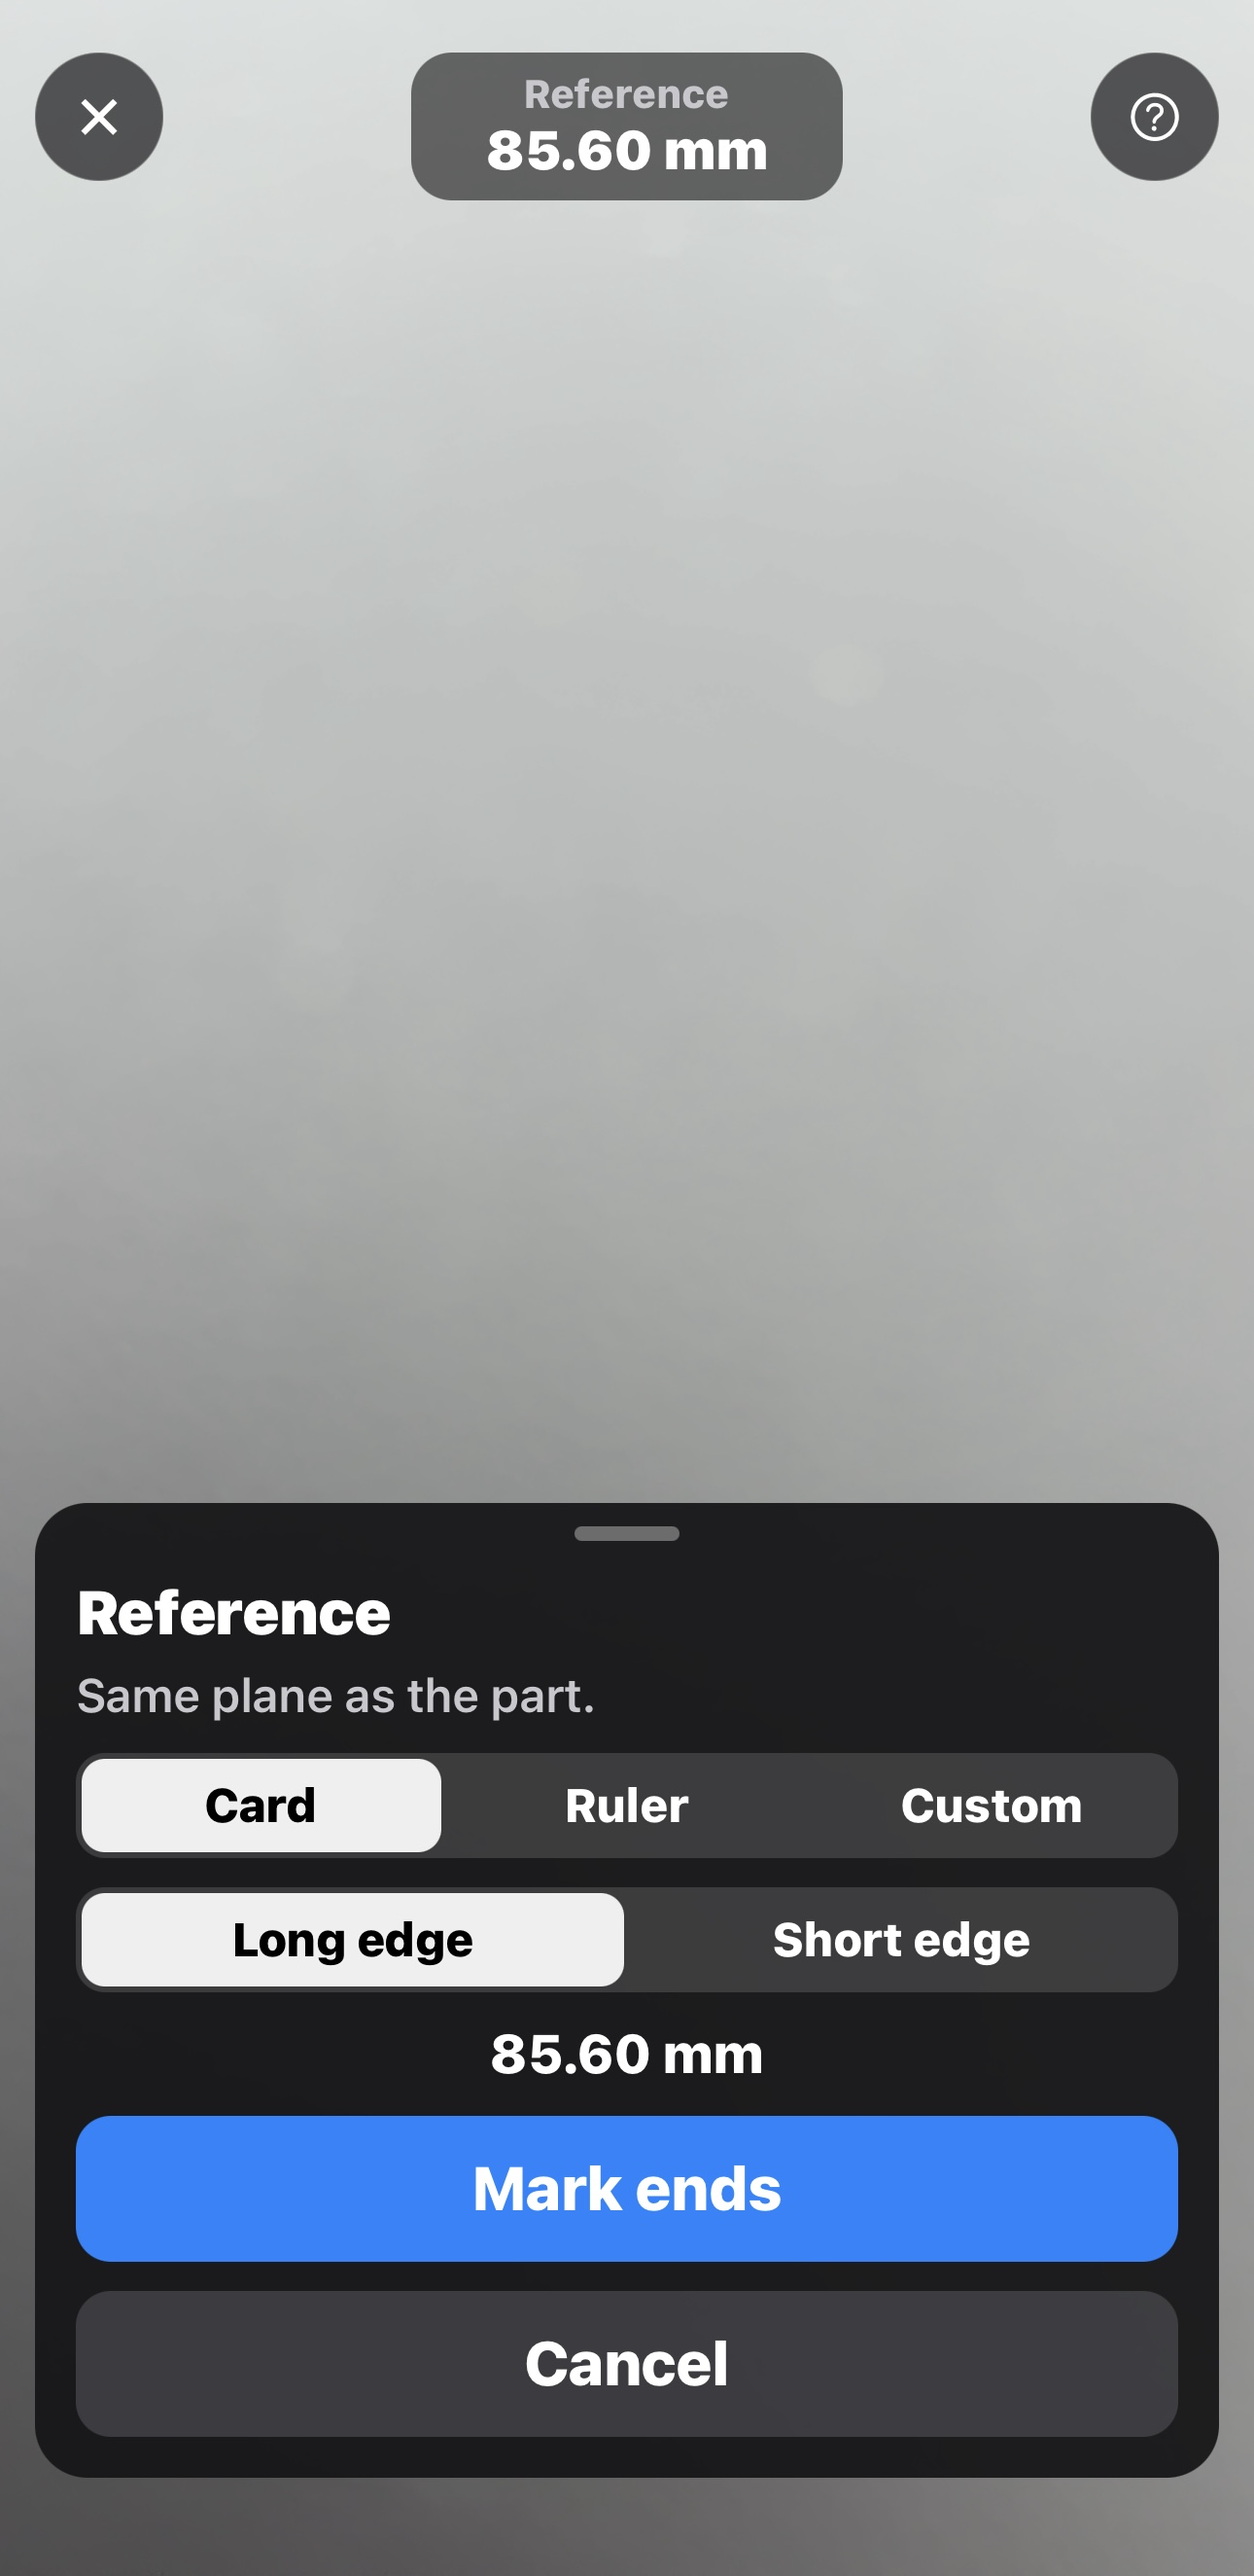
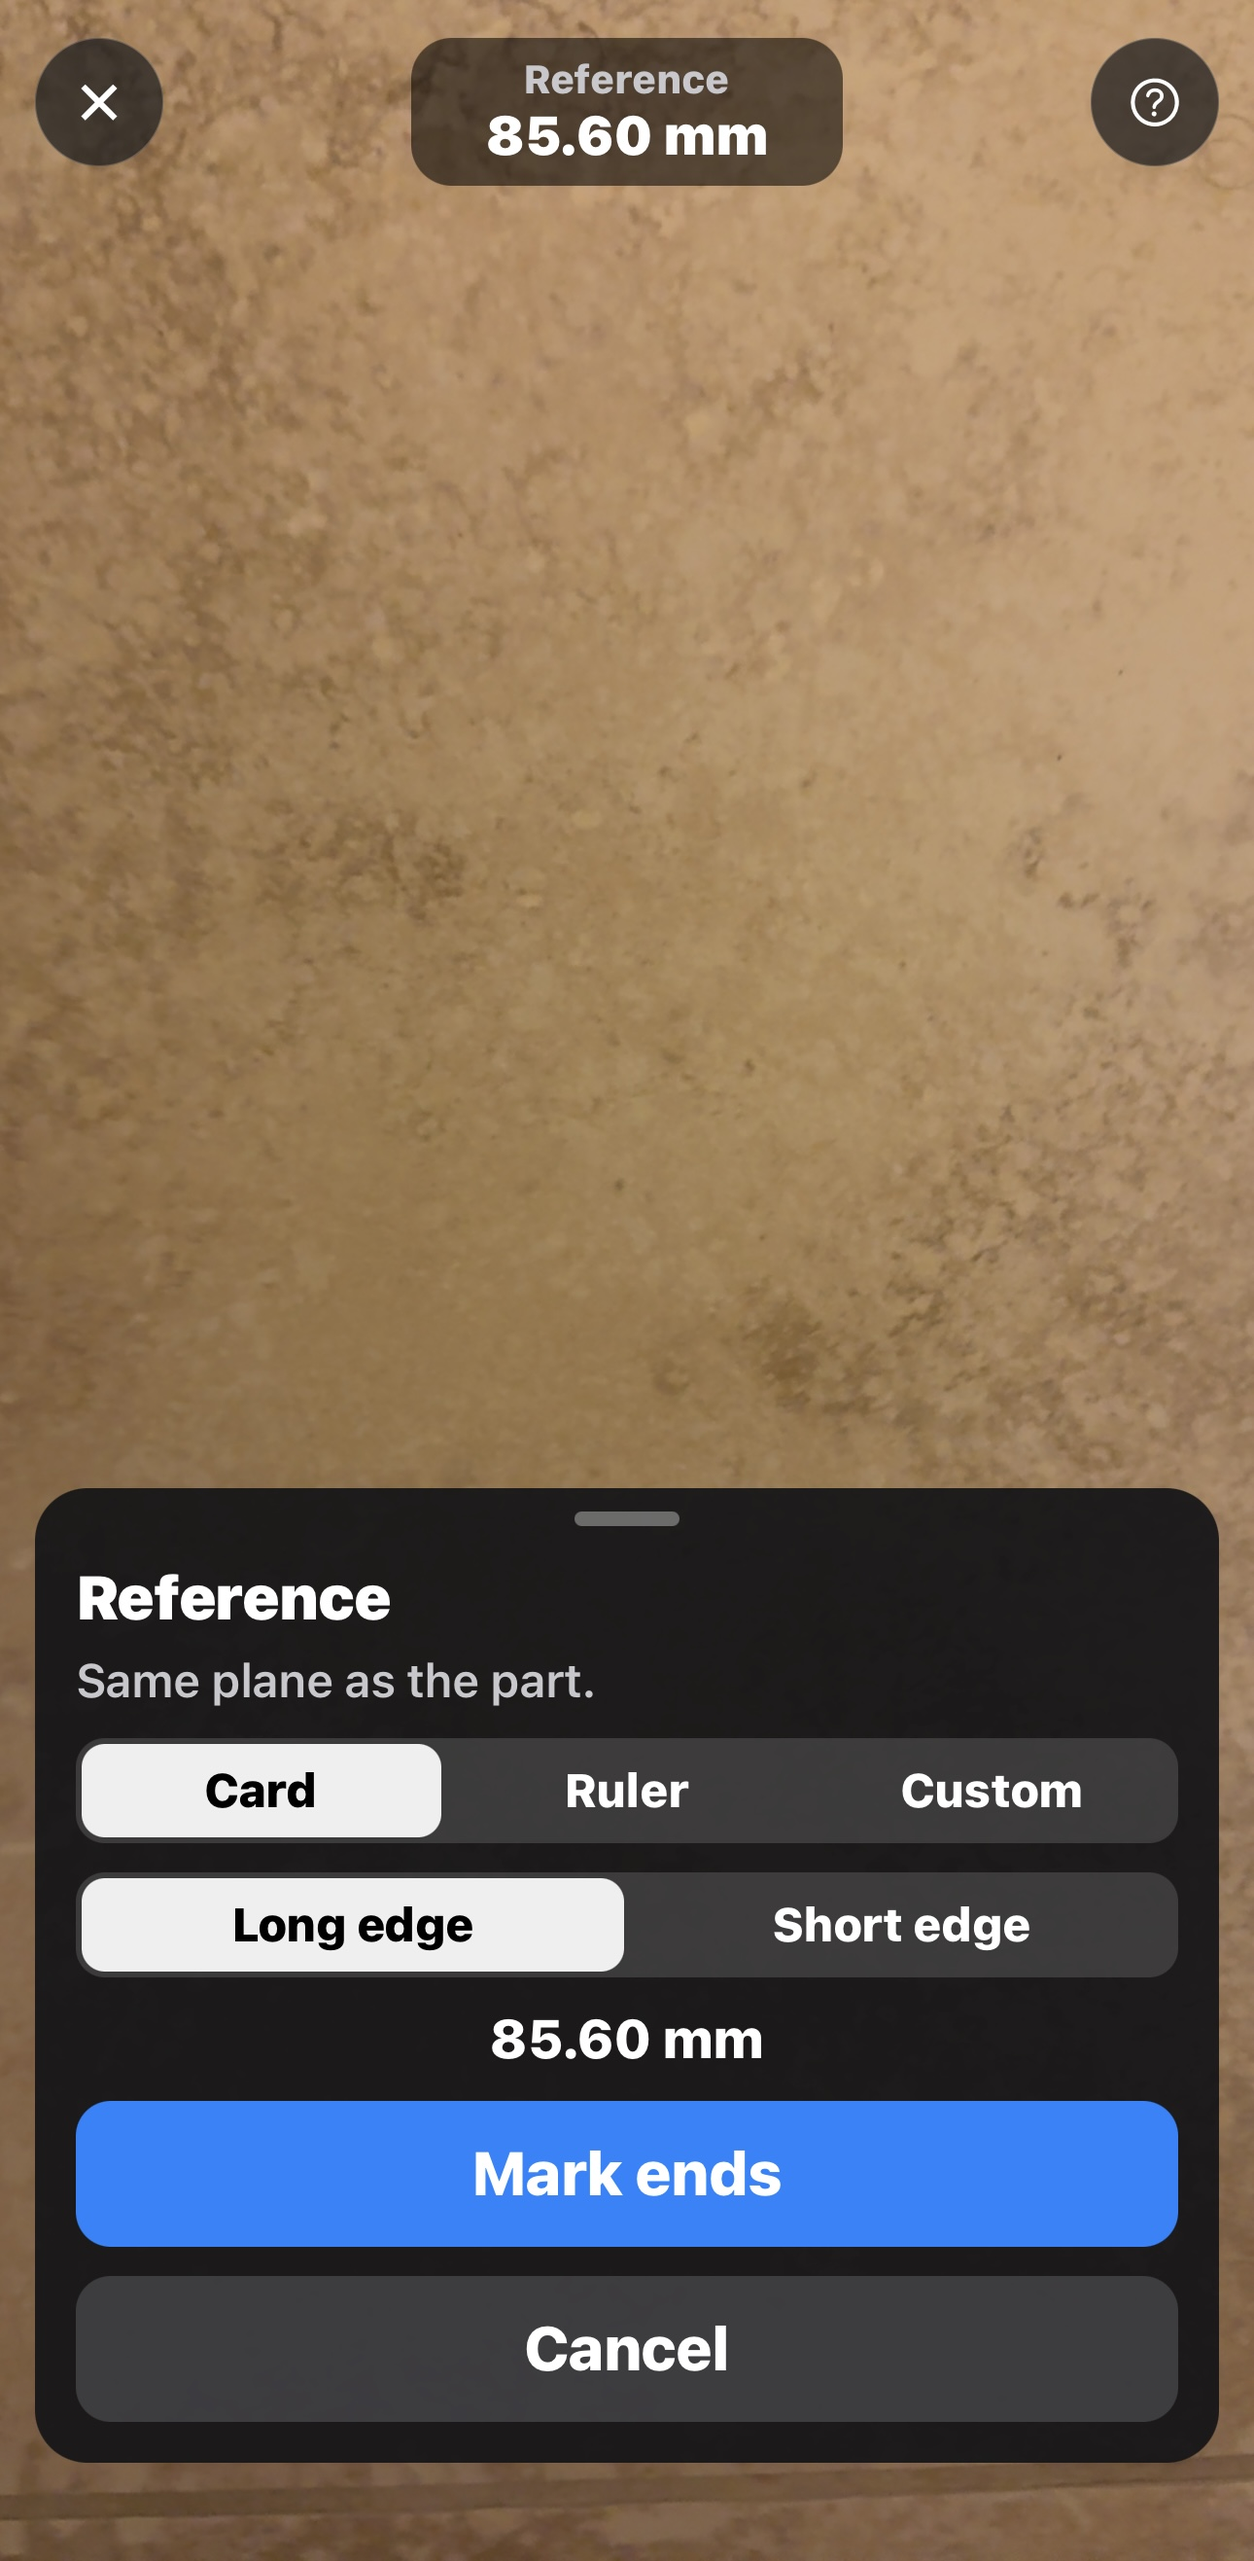
Replace gallery with latest plain UI screenshots.
Use original app captures (not App Store promo frames) for Home,
Size with Camera, Edit Contour, Edit Sculpt, CNC Settings, and
G-code simulation, with short captions matching the prior tone.

diff --git a/index.html b/index.html
@@ -187,24 +187,22 @@
         <div class="shots">
 
           <figure class="shot">
-            <img src="assets/shots/01-home-sample.jpg" width="1290" height="2643" alt="Home with the Make your iMage sample loaded, a Recents card, and Edit, CNC Settings, and Generate" loading="lazy" decoding="async" />
+            <img src="assets/shots/01-home-recents.jpg" width="1289" height="2650" alt="Home screen with Take Photo, Choose Photo, and Recents cards for Coca-Cola, LEGO, and portrait jobs" loading="lazy" decoding="async" />
             <figcaption>
               <strong>Home</strong>
-              Start from a photo or the sample job. Recents keeps the work editable.
+              Take or choose a photo. Recents keeps past jobs ready to reopen.
             </figcaption>
             <dl class="keylist">
               <div><dt>Add (+)</dt><dd>Start from a new photo.</dd></div>
-              <div><dt>Sample</dt><dd>Make your iMage is loaded and ready to cut.</dd></div>
-              <div><dt>Recents</dt><dd>Tap the card to reopen that job. The label shows it already has G-code.</dd></div>
+              <div><dt>Take Photo</dt><dd>Capture with the camera.</dd></div>
+              <div><dt>Choose Photo</dt><dd>Pick from your library.</dd></div>
+              <div><dt>Recents</dt><dd>Tap a card to reopen that job.</dd></div>
               <div><dt>Delete ×</dt><dd>Remove that recent only — not your camera roll.</dd></div>
-              <div><dt>Edit</dt><dd>Crop, contrast, mode, and size.</dd></div>
-              <div><dt>CNC Settings</dt><dd>Controller, units, offset, and tool.</dd></div>
-              <div><dt>Generate</dt><dd>Build G-code and open the path preview.</dd></div>
             </dl>
           </figure>
 
           <figure class="shot">
-            <img src="assets/shots/02-size-camera-reference.jpg" width="1290" height="2648" alt="Size with Camera reference: Card, long edge, 85.60 mm, and Mark ends" loading="lazy" decoding="async" />
+            <img src="assets/shots/02-size-camera-reference.jpg" width="1290" height="2633" alt="Size with Camera reference sheet: Card, long edge, 85.60 mm, and Mark ends" loading="lazy" decoding="async" />
             <figcaption>
               <strong>Size with Camera</strong>
               Calibrate with a card or ruler so width and height match the workpiece in millimetres.
@@ -219,28 +217,41 @@
           </figure>
 
           <figure class="shot">
-            <img src="assets/shots/03-edit.jpg" width="1290" height="2646" alt="Edit screen with contrast, crop, Sculpting selected, width and height, and Size with camera" loading="lazy" decoding="async" />
+            <img src="assets/shots/03-edit-contour.jpg" width="1290" height="2513" alt="Edit screen with Contour selected on a Coca-Cola logo, green outline preview, and 50 by 20 mm size" loading="lazy" decoding="async" />
             <figcaption>
-              <strong>Edit</strong>
-              Crop, rotate, contrast, and set size before you cut.
+              <strong>Edit · Contour</strong>
+              Trace the outlines. Preview shows the cut look before you generate.
             </figcaption>
             <dl class="keylist">
               <div><dt>Done</dt><dd>Leave Edit and keep this prep.</dd></div>
-              <div><dt>Undo / Reset</dt><dd>Step back one change, or wipe edits on this photo.</dd></div>
-              <div><dt>Contrast + Auto</dt><dd>Separate ink from background. Auto picks a start. Preview is the cut look.</dd></div>
-              <div><dt>Crop</dt><dd>Frame the job, and rotate it if the photo sits sideways.</dd></div>
-              <div><dt>Invert</dt><dd>Flip light and dark.</dd></div>
-              <div><dt>Adaptive</dt><dd>On for local edges; off for the plain look.</dd></div>
-              <div><dt>Sculpting / Contour</dt><dd>Relief carve, or an outline trace. Sculpting is selected.</dd></div>
+              <div><dt>Undo / Redo</dt><dd>Step back or forward one change.</dd></div>
+              <div><dt>Contrast + Auto</dt><dd>Separate ink from background. Auto picks a start.</dd></div>
+              <div><dt>Crop / Invert / Adaptive</dt><dd>Frame the job, flip light and dark, or use local edges.</dd></div>
+              <div><dt>Sculpting / Contour</dt><dd>Relief carve, or an outline trace. Contour is selected.</dd></div>
               <div><dt>Keep aspect ratio</dt><dd>Height follows width.</dd></div>
-              <div><dt>W / H</dt><dd>Width and height in millimetres. Here, 10 mm by 47.1 mm.</dd></div>
+              <div><dt>W / H</dt><dd>Width and height in millimetres. Here, 50 mm by 20 mm.</dd></div>
               <div><dt>Size with camera</dt><dd>Set those millimetres from a card or ruler.</dd></div>
               <div><dt>Generate G-code</dt><dd>Build the program and open the simulator.</dd></div>
             </dl>
           </figure>
 
           <figure class="shot">
-            <img src="assets/shots/04-cnc-settings.jpg" width="1240" height="2666" alt="CNC Settings with Fanuc, millimetres, file name, G54 center work offset, and machining parameters" loading="lazy" decoding="async" />
+            <img src="assets/shots/04-edit-sculpt.jpg" width="1290" height="2650" alt="Edit screen with Sculpting selected on a Coca-Cola logo, grayscale cut preview, and 50 by 20 mm size" loading="lazy" decoding="async" />
+            <figcaption>
+              <strong>Edit · Sculpting</strong>
+              Carve the picture as a surface. Same prep tools, denser path.
+            </figcaption>
+            <dl class="keylist">
+              <div><dt>Preview</dt><dd>The grayscale fill is the cut look for a relief carve.</dd></div>
+              <div><dt>Sculpting / Contour</dt><dd>Switch modes anytime. Sculpting is selected.</dd></div>
+              <div><dt>W / H</dt><dd>Same millimetre size as Contour — here, 50 mm by 20 mm.</dd></div>
+              <div><dt>Size with camera</dt><dd>Calibrate from a known reference on the workpiece.</dd></div>
+              <div><dt>Generate G-code</dt><dd>Build the denser sculpt program.</dd></div>
+            </dl>
+          </figure>
+
+          <figure class="shot">
+            <img src="assets/shots/05-cnc-settings.jpg" width="1290" height="2653" alt="CNC Settings with Fanuc, millimetres, Coca-Cola.TXT, G54 top left, and Contour summary" loading="lazy" decoding="async" />
             <figcaption>
               <strong>CNC Settings</strong>
               Pick controller, units, work offset (WCS), and machining parameters.
@@ -248,46 +259,32 @@
             <dl class="keylist">
               <div><dt>Fanuc / Okuma / Siemens</dt><dd>Dialect for your machine. Fanuc is selected.</dd></div>
               <div><dt>mm / inch</dt><dd>Units for sizes and coordinates. Millimetres are selected.</dd></div>
-              <div><dt>File name</dt><dd>Output name. Here, G-code.TXT.</dd></div>
-              <div><dt>Work Offset</dt><dd>Work coordinate system. Here, G54 · Center.</dd></div>
+              <div><dt>File name</dt><dd>Output name. Here, Coca-Cola.TXT.</dd></div>
+              <div><dt>Work Offset</dt><dd>Work coordinate system. Here, G54 · Top left.</dd></div>
               <div><dt>Machining parameters</dt><dd>Tool and feed summary. Here, T1.</dd></div>
-              <div><dt>Summary</dt><dd>Fanuc · mm · 102.5 × 47.1 · G54 — the file you are about to write.</dd></div>
+              <div><dt>Summary</dt><dd>Fanuc · mm · 50.0 × 20.1 · G54 · Contour — the file you are about to write.</dd></div>
               <div><dt>Generate G-code</dt><dd>Write the file with these settings.</dd></div>
             </dl>
           </figure>
 
           <figure class="shot">
-            <img src="assets/shots/05-gcode-sim-sculpt.jpg" width="1290" height="2669" alt="G-code simulation of a dense sculpting toolpath for Make your iMage, at 4826 of 4826 lines" loading="lazy" decoding="async" />
+            <img src="assets/shots/06-gcode-sim.jpg" width="1290" height="2654" alt="G-code simulation of a Contour Coca-Cola toolpath at 371 of 371 lines" loading="lazy" decoding="async" />
             <figcaption>
               <strong>Simulation</strong>
               Play the toolpath and check the cut before you share the file.
             </figcaption>
             <dl class="keylist">
-              <div><dt>Sculpting path</dt><dd>A dense fill of the letters. The orange dot is the tool.</dd></div>
-              <div><dt>Progress</dt><dd>Scrub the program. This job is at 4826/4826.</dd></div>
+              <div><dt>Contour path</dt><dd>Green outline of the logo. The orange dot is the tool.</dd></div>
+              <div><dt>Progress</dt><dd>Scrub the program. This job is at 371/371.</dd></div>
               <div><dt>Reset</dt><dd>Jump to the first move.</dd></div>
               <div><dt>Play</dt><dd>Run the path in G-code order.</dd></div>
               <div><dt>Show all</dt><dd>Draw the full path at once.</dd></div>
               <div><dt>Rapids Off</dt><dd>Hide non-cutting moves.</dd></div>
               <div><dt>0.5× / 1× / 2× / 5×</dt><dd>Playback speed — study slow, skim fast.</dd></div>
-              <div><dt>File · size · time</dt><dd>G-code.TXT · 115 KB · 4m 18s.</dd></div>
+              <div><dt>File · size · time</dt><dd>Coca-Cola.TXT · 7.9 KB · 14s.</dd></div>
               <div><dt>Edit / CNC Settings</dt><dd>Change the job, then generate again.</dd></div>
               <div><dt>Share</dt><dd>Send the file only when you choose where.</dd></div>
               <div><dt>Generate</dt><dd>Rebuild G-code with the current settings.</dd></div>
-            </dl>
-          </figure>
-
-          <figure class="shot">
-            <img src="assets/shots/06-gcode-sim-contour.jpg" width="1290" height="2796" alt="G-code simulation of a lighter contour toolpath for Make your iMage, at 387 of 387 lines" loading="lazy" decoding="async" />
-            <figcaption>
-              <strong>Simulation · Contour</strong>
-              Same G-code screen, with a lighter outline path.
-            </figcaption>
-            <dl class="keylist">
-              <div><dt>Outline</dt><dd>Contour follows the letter edges instead of filling them.</dd></div>
-              <div><dt>Line counter</dt><dd>387/387 — a shorter program than the sculpt.</dd></div>
-              <div><dt>File · size · time</dt><dd>G-code.TXT · 8.7 KB · 22s.</dd></div>
-              <div><dt>Same controls</dt><dd>Reset, Play, Show all, Rapids, speed, then Share.</dd></div>
             </dl>
           </figure>
 
